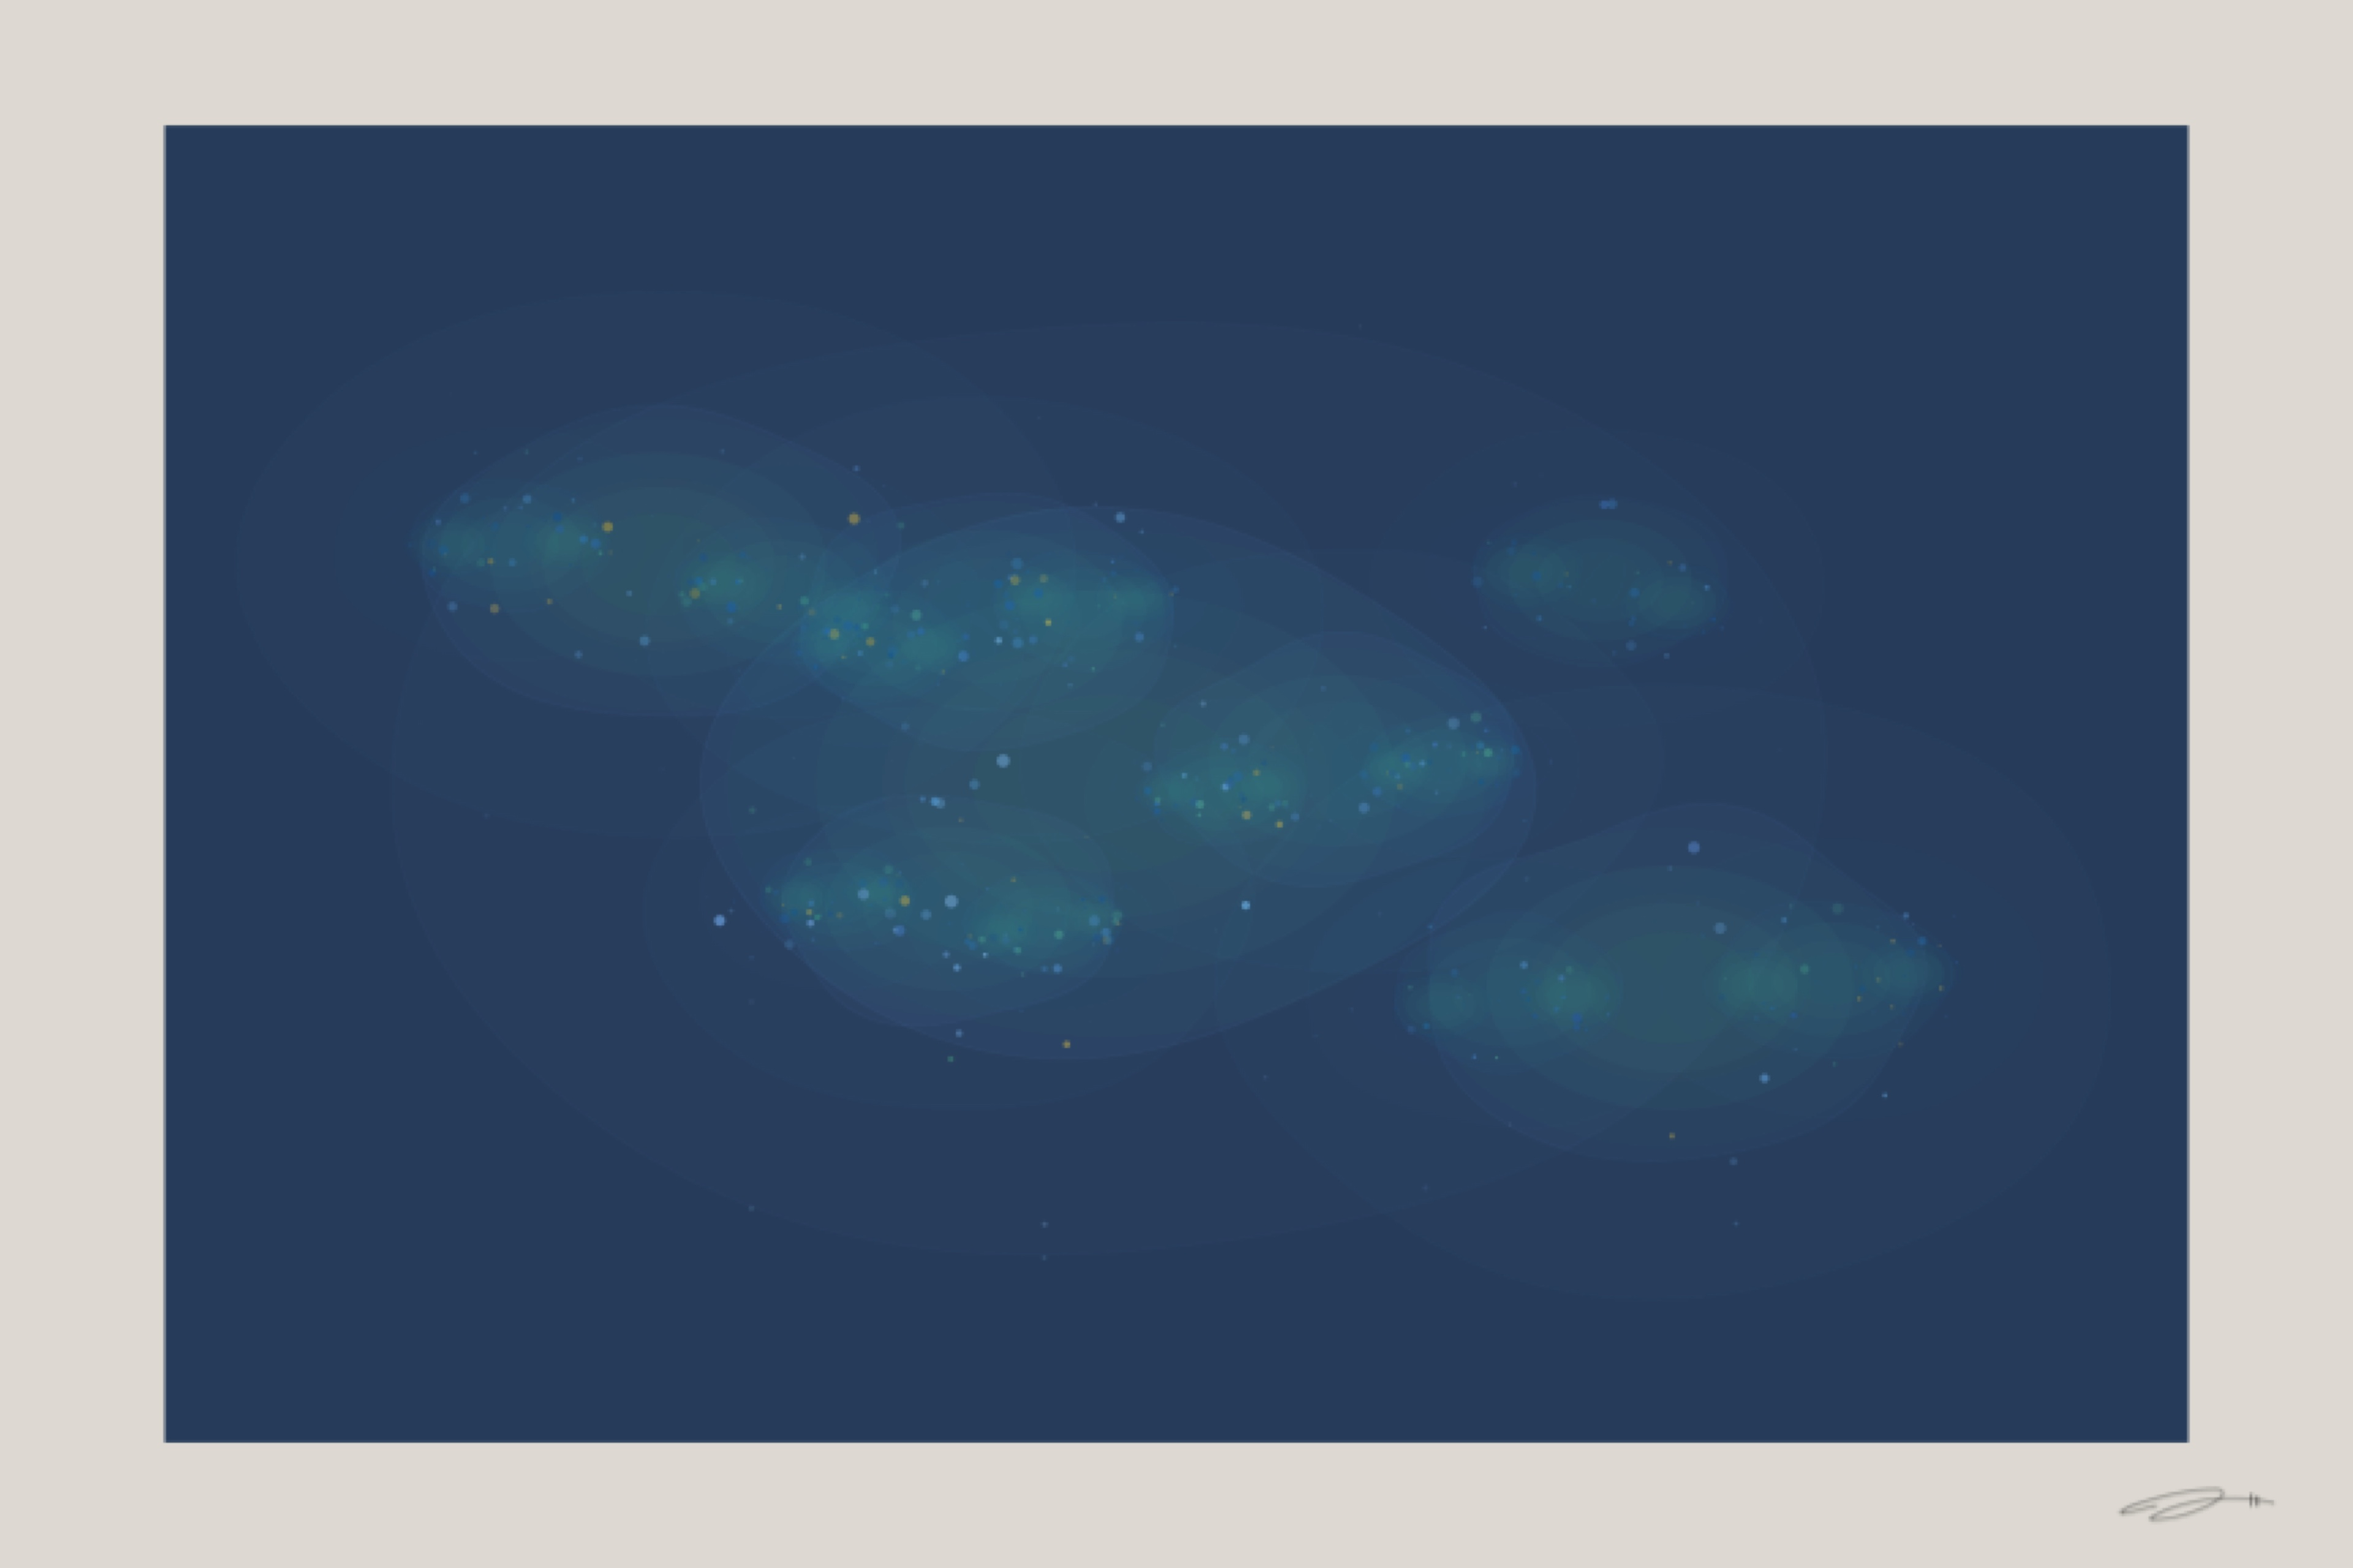
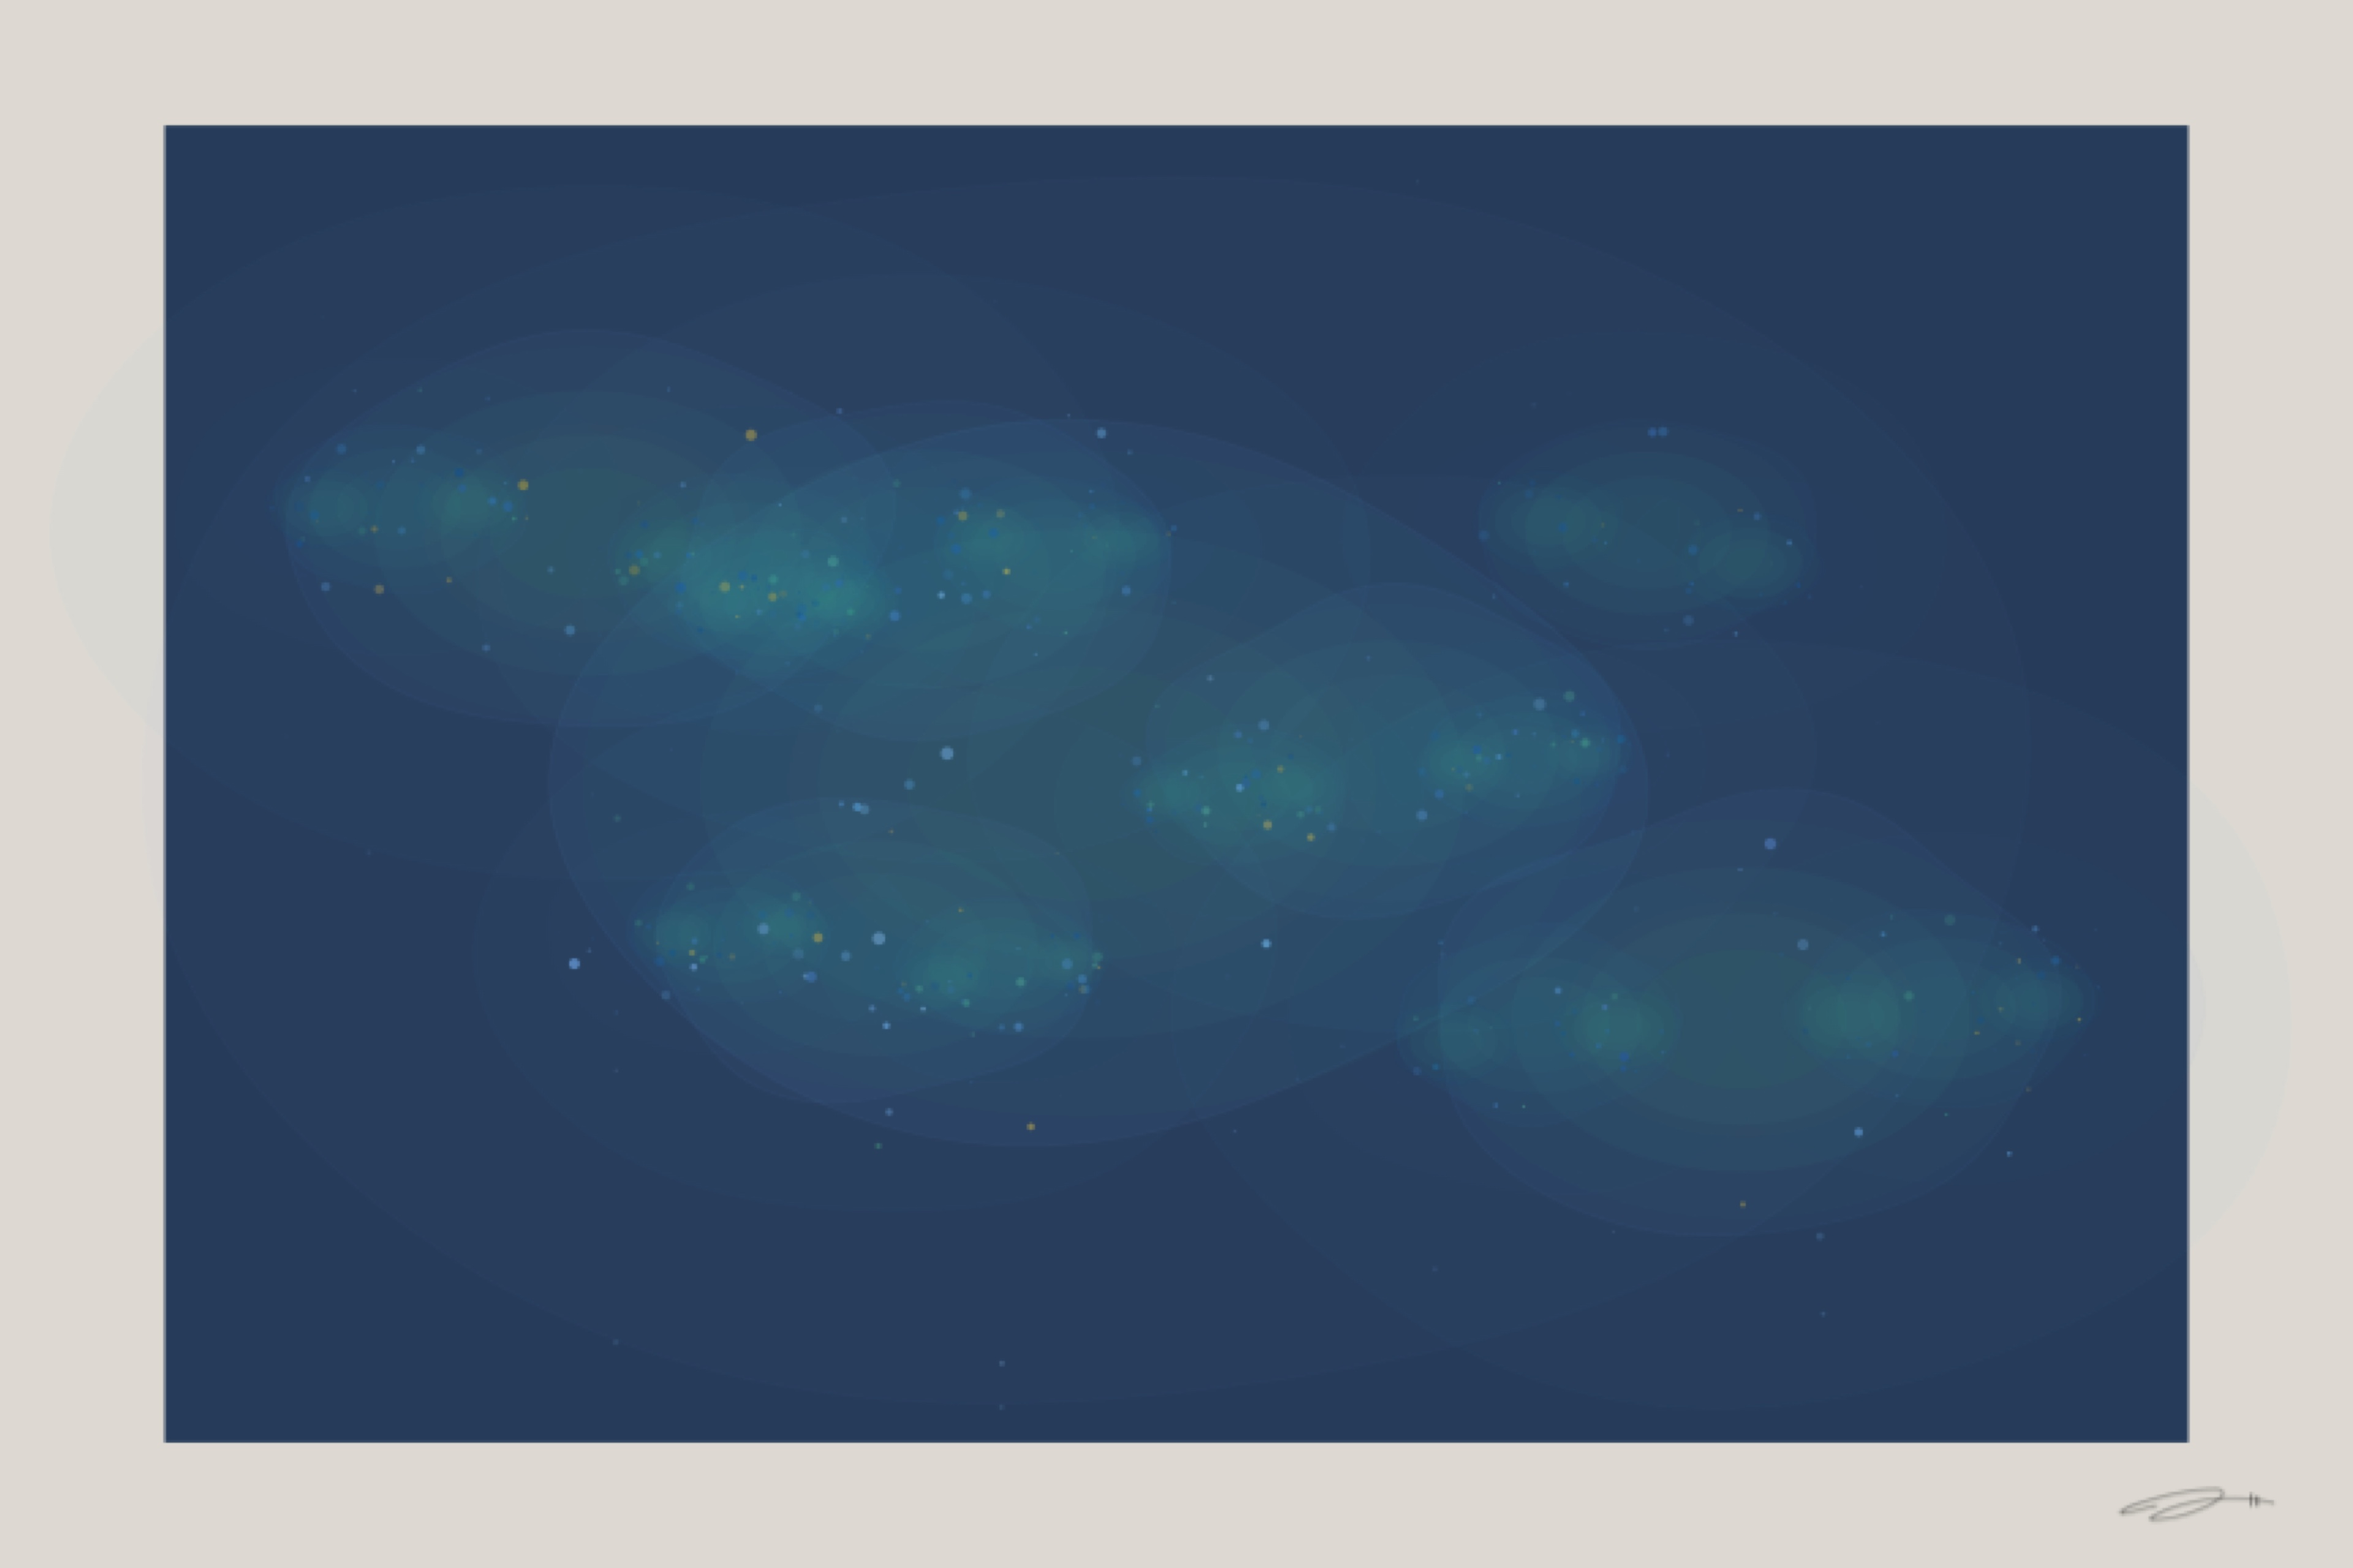
Primordial Pool: switch to Balanced Fill layout — pools x1.3 to fill art area

diff --git a/mathematical_affect/pieces/wonder/wonder_primordial_pool.py b/mathematical_affect/pieces/wonder/wonder_primordial_pool.py
@@ -187,11 +187,11 @@ def render():
         )
     )
 
-    # Root pools — R7 V10 layout
-    spawn_clusters(ax, 0.47, 0.50, 0.19, 3, rng, _is_root=True)
-    spawn_clusters(ax, 0.28, 0.64, 0.11, 2, rng, _is_root=True)
-    spawn_clusters(ax, 0.71, 0.37, 0.12, 2, rng, _is_root=True)
-    spawn_clusters(ax, 0.68, 0.63, 0.06, 1, rng, _is_root=False)
+    # Root pools — Balanced Fill layout
+    spawn_clusters(ax, 0.46, 0.50, 0.25, 3, rng, _is_root=True)
+    spawn_clusters(ax, 0.25, 0.66, 0.14, 2, rng, _is_root=True)
+    spawn_clusters(ax, 0.74, 0.35, 0.15, 2, rng, _is_root=True)
+    spawn_clusters(ax, 0.70, 0.66, 0.08, 1, rng, _is_root=False)
 
     # Save
     os.makedirs(OUTPUT_DIR, exist_ok=True)
